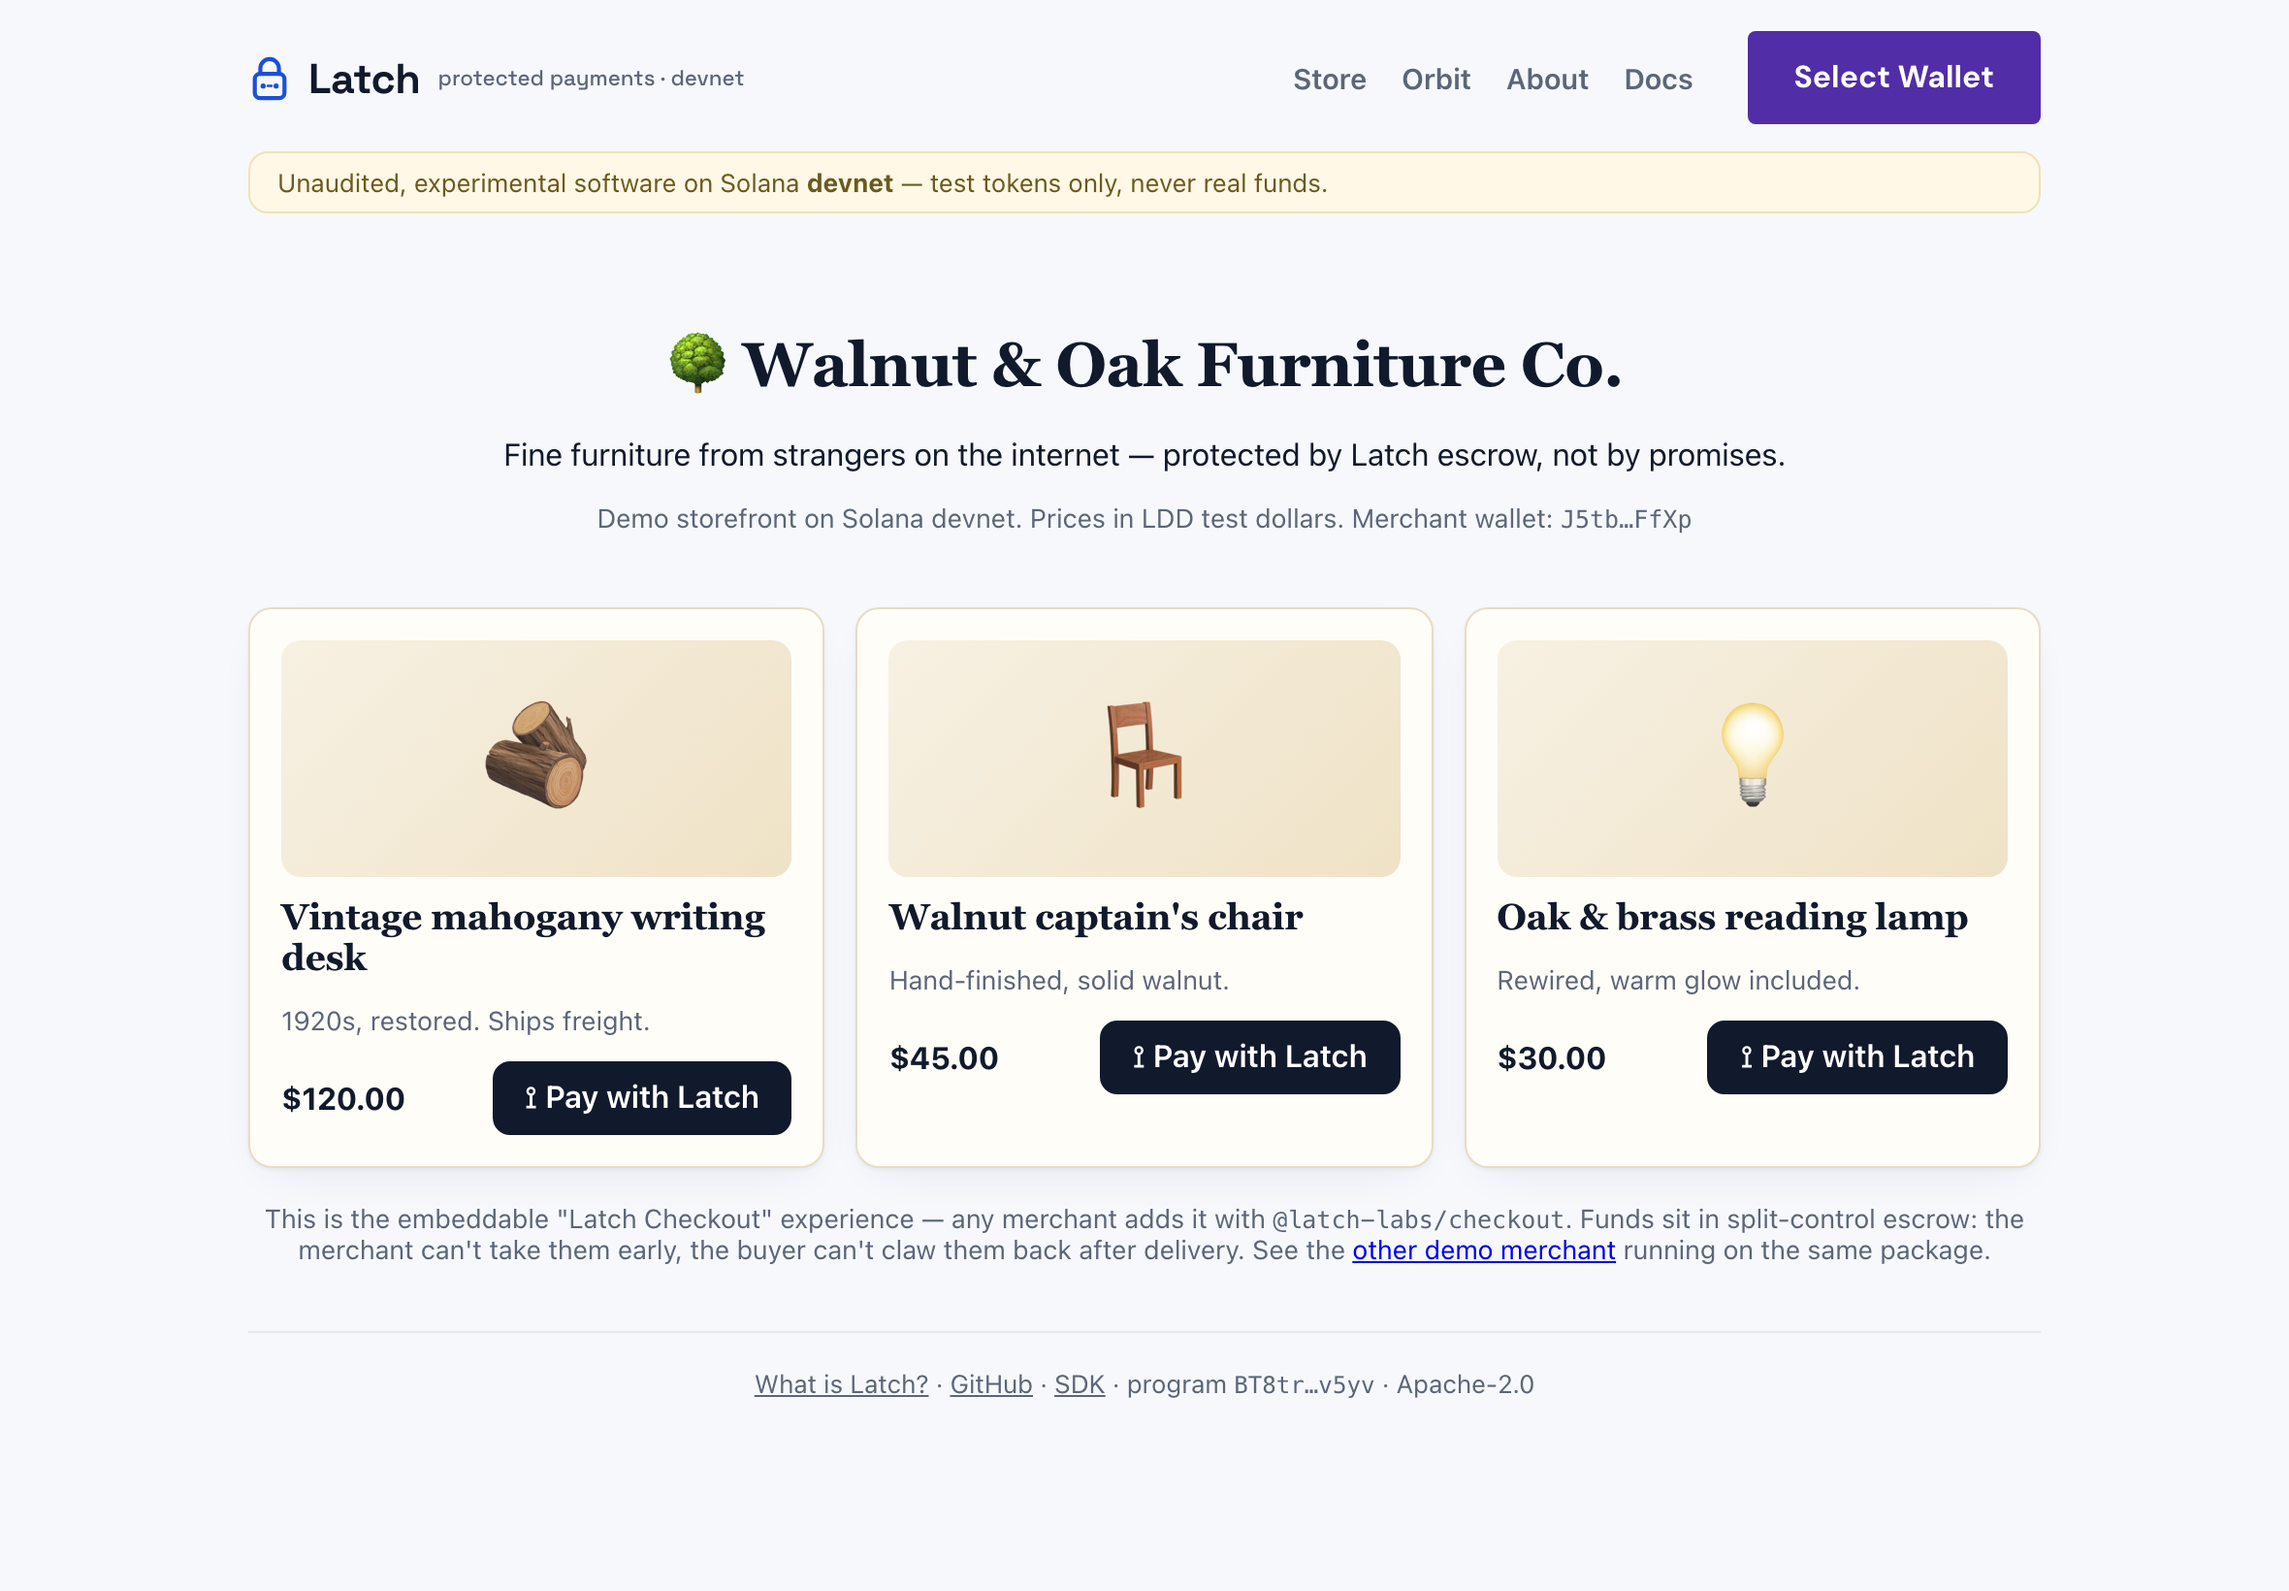
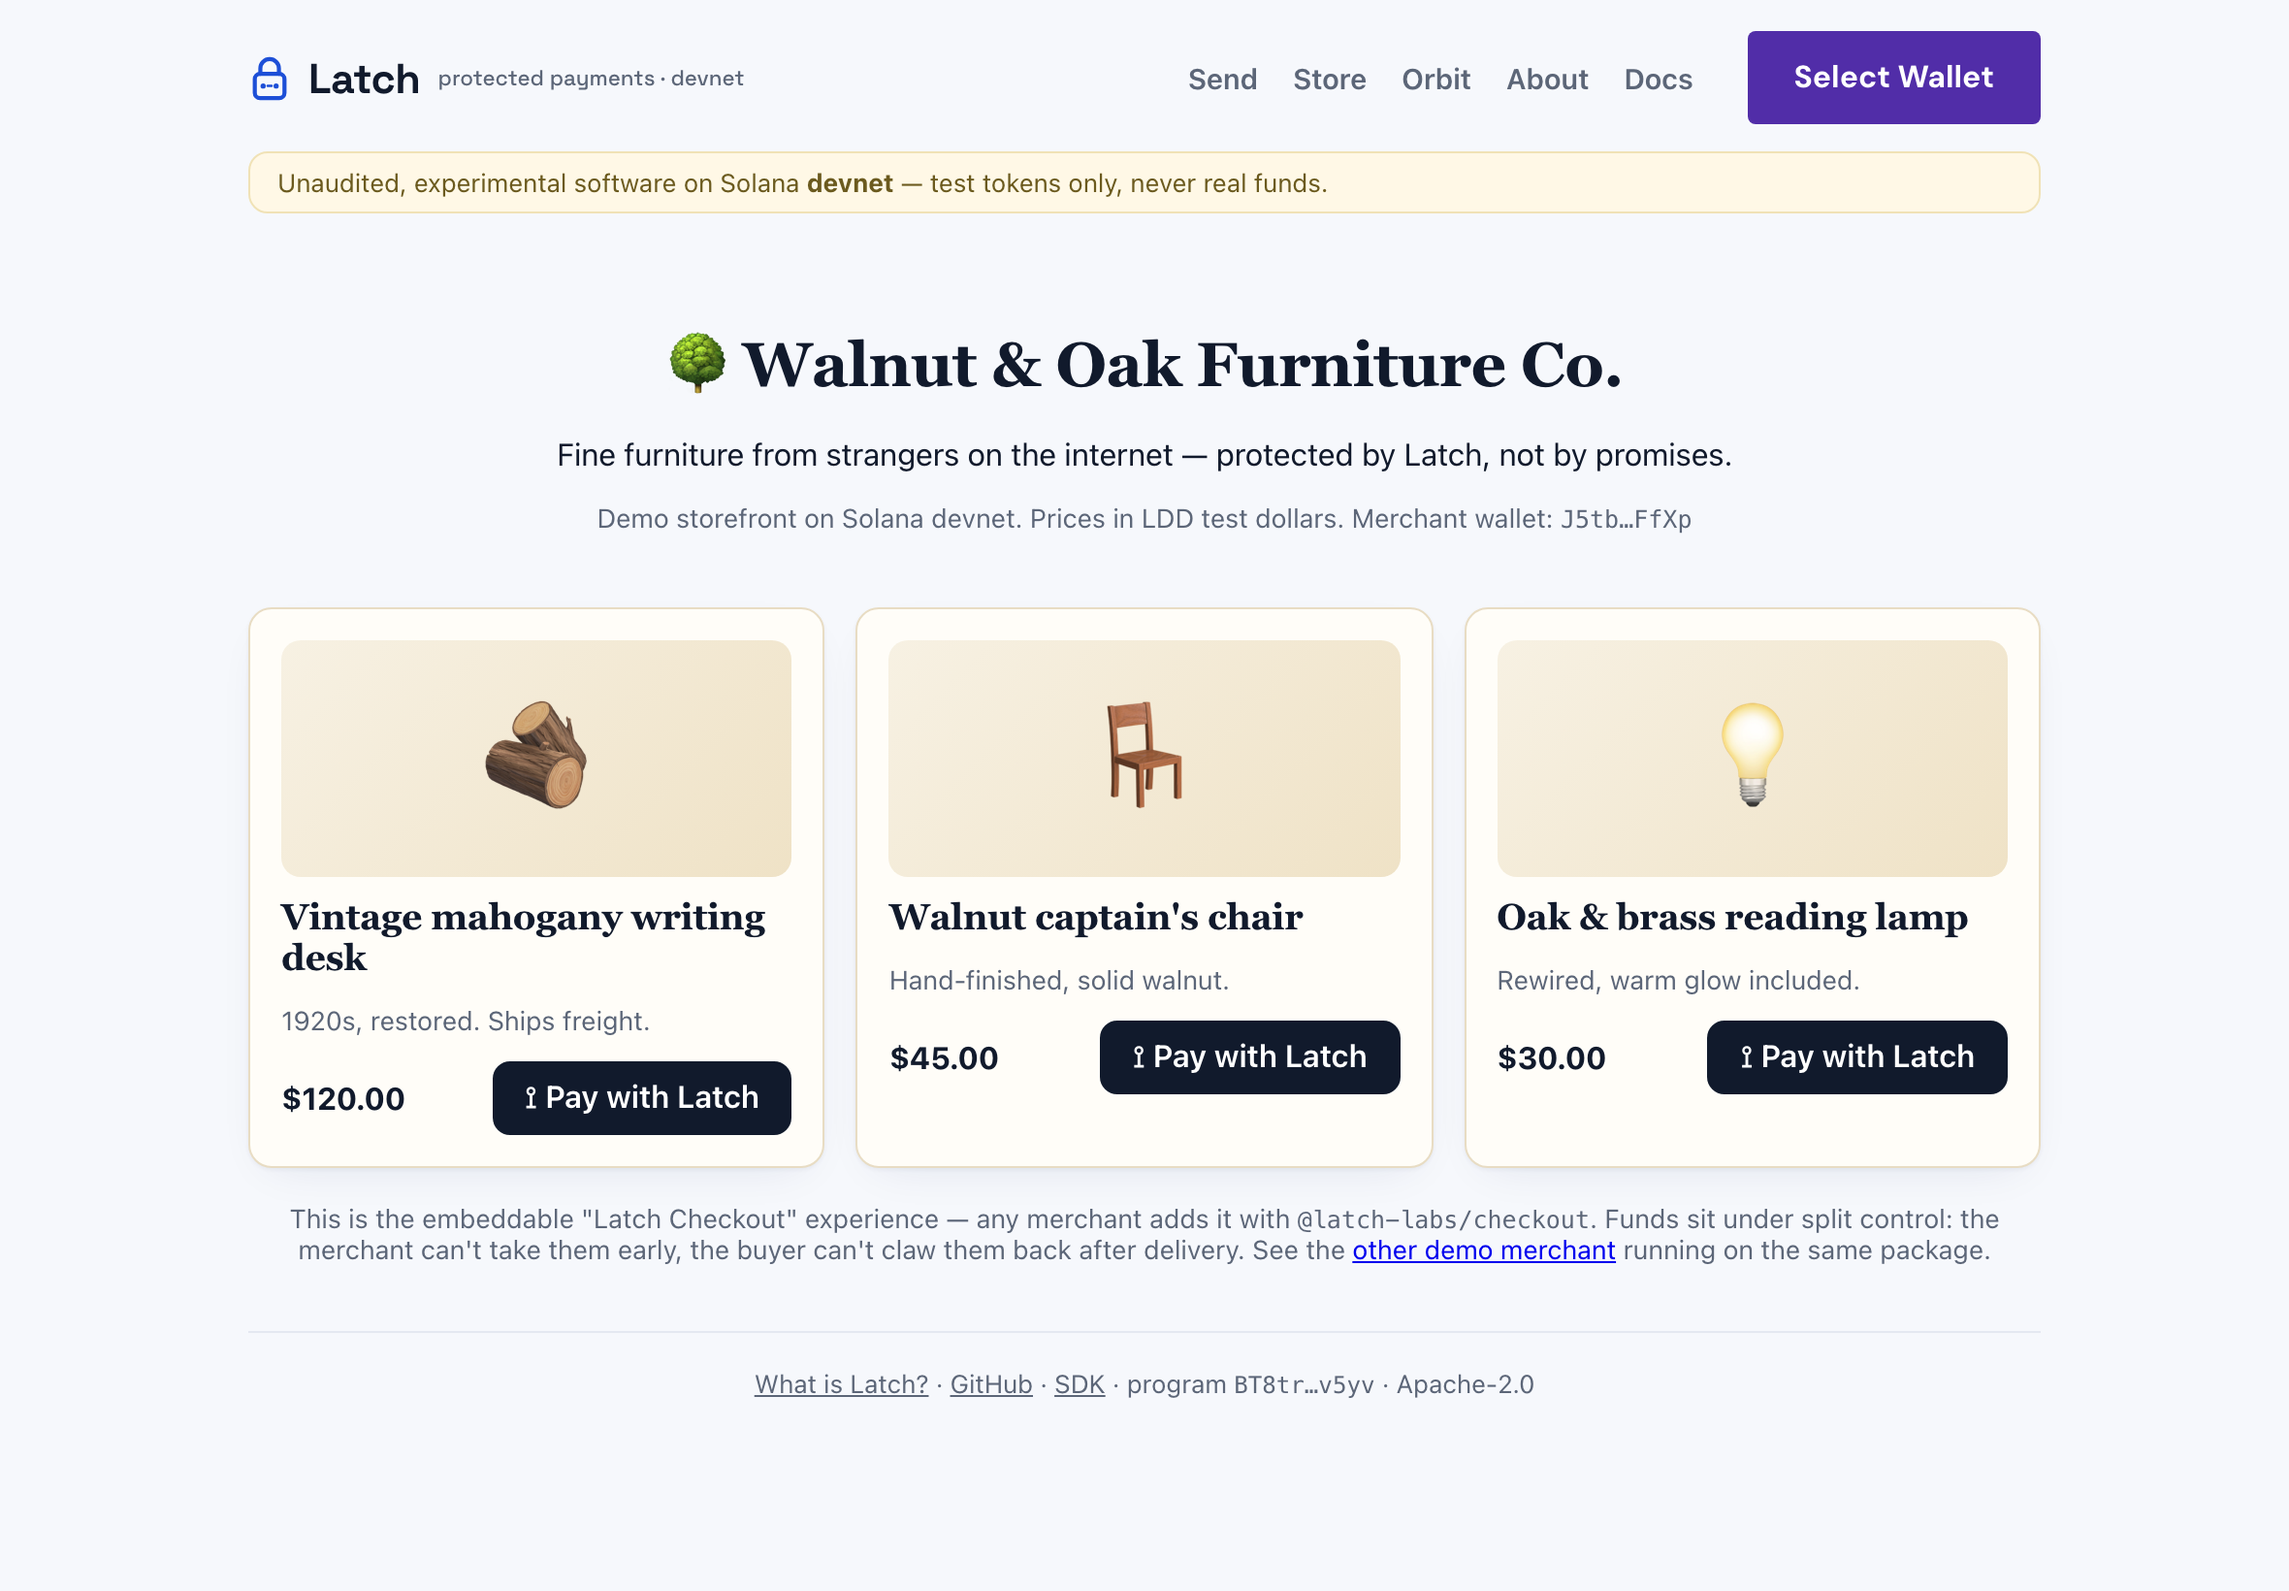
app: cold-judge sweep fixes — bad-address card, phone layouts, fresh storefront shot
From a crawl of every route with no wallet at desktop and 375px widths
(console errors, page errors, failed requests, horizontal overflow, link
checks across the site and all repo markdown):
- A malformed deal/certificate address (e.g. a truncated share link)
  crashed the app to a blank page; it now shows "That isn't a deal
  address" with links back into the app.
- Certificate overflowed phones (long hashes, and the declaration's
  underscore lines): codes, the agreement text and declaration lines now
  wrap; print layout unchanged.
- Send form inputs filled only part of their row on phones; they now span
  the row and stack.
- Landing nav hid every link below 900px; it now shows a compact second
  row.
- The landing's storefront screenshot predated the copy changes;
  recaptured from the current store.
Sweep after fixes: 22/22 page loads clean. All seven E2E suites pass.

Changed region(s): [[0.1237, 0.7463, 0.8661, 0.7774], [0.2165, 0.2799, 0.7733, 0.311], [0.5258, 0.0311, 0.5568, 0.0622]]

diff --git a/app/src/styles.css b/app/src/styles.css
@@ -40,6 +40,7 @@ input:focus, select:focus { outline: 2px solid var(--blue-tint-line); border-col
 .row { display: flex; gap: 10px; align-items: center; flex-wrap: wrap; }
 .row.spread { justify-content: space-between; }
 .row input { flex: 1; width: auto; }
+.row label input { width: 100%; }
 .balances { gap: 24px; font-size: .95em; }
 button, .btnlike { font: inherit; cursor: pointer; border-radius: 9px; border: 1px solid var(--brand); background: #fff; color: var(--brand); padding: 8px 16px; font-weight: 600; text-decoration: none; display: inline-block; }
 button:hover, .btnlike:hover { background: var(--blue-tint); }
@@ -80,6 +81,9 @@ code { font-family: ui-monospace, Menlo, monospace; font-size: .92em; }
 .cert table { width: 100%; border-collapse: collapse; font-size: .82em; }
 .cert td, .cert th { border: 1px solid #bbb; padding: 6px 8px; text-align: left; vertical-align: top; word-break: break-all; }
 .cert th { background: #f2efe9; }
+.cert code { word-break: break-all; overflow-wrap: anywhere; }
+.cert pre { white-space: pre-wrap; overflow-wrap: anywhere; }
+.cert .decl p { overflow-wrap: anywhere; }
 .cert .meta td { border: none; padding: 3px 8px; }
 @media print { header, footer, .warnbar, .noprint { display: none !important; } body { background: #fff; } .cert { border: none; box-shadow: none; } }
 
@@ -111,6 +115,7 @@ button.ghost:hover { background: none; }
   header { flex-wrap: wrap; gap: 8px; }
   nav.main { order: 3; width: 100%; margin: 0; justify-content: center; gap: 14px; }
   .row.spread { flex-direction: column; align-items: stretch; }
+  .row > label { flex: 1 1 100% !important; }
   .row.spread > div { width: 100%; }
   .balances { flex-direction: column; gap: 8px; }
   .milestone { flex-wrap: wrap; }
@@ -262,7 +267,8 @@ button.ghost:hover { background: none; }
   .lp-hero { padding: 48px 0 40px; }
   .lp-hero-grid, .lp-split { grid-template-columns: 1fr; gap: 30px; }
   .lp h1 { font-size: 2.1em; }
-  .lp-links { display: none; }
+  .lp-nav-in { flex-wrap: wrap; row-gap: 6px; }
+  .lp-links { order: 3; width: 100%; margin: 0; flex-wrap: wrap; justify-content: center; gap: 6px 16px; font-size: .86em; }
   .lp-foot-grid { grid-template-columns: 1fr 1fr; }
 }
 .lp-foot { text-align: left; }

diff --git a/app/src/App.tsx b/app/src/App.tsx
@@ -1,5 +1,6 @@
 import { useWallet } from "@solana/wallet-adapter-react";
 import { WalletMultiButton } from "@solana/wallet-adapter-react-ui";
+import { PublicKey } from "@solana/web3.js";
 import { useEffect, useState } from "react";
 import Certificate from "./pages/Certificate";
 import Cheat from "./pages/Cheat";
@@ -15,6 +16,16 @@ export interface Route {
   page: "home" | "new" | "deal" | "cert" | "store" | "orbit" | "about" | "cheat" | "send";
   address?: string;
   subject: string;
+}
+
+function isAddress(a?: string): boolean {
+  if (!a) return false;
+  try {
+    new PublicKey(a); // throws on anything that isn't a 32-byte base58 key
+    return true;
+  } catch {
+    return false;
+  }
 }
 
 function parseHash(): Route {
@@ -79,8 +90,17 @@ export default function App() {
         {route.page === "cheat" && <Cheat />}
         {route.page === "send" && <Send />}
         {route.page === "orbit" && <Orbit />}
-        {route.page === "deal" && <Deal address={route.address!} subject={route.subject} />}
-        {route.page === "cert" && <Certificate address={route.address!} subject={route.subject} />}
+        {(route.page === "deal" || route.page === "cert") && !isAddress(route.address) && (
+          <div className="card center">
+            <h3>That isn't a deal address</h3>
+            <p className="muted">
+              The link may have been cut off — a deal link ends in a 32–44 character address.{" "}
+              <a href="#/send">Start a payment</a> or <a href="#/store">try the demo store</a>.
+            </p>
+          </div>
+        )}
+        {route.page === "deal" && isAddress(route.address) && <Deal address={route.address!} subject={route.subject} />}
+        {route.page === "cert" && isAddress(route.address) && <Certificate address={route.address!} subject={route.subject} />}
       </main>
       <footer>
         <a href="#/about">What is Latch?</a> ·{" "}
